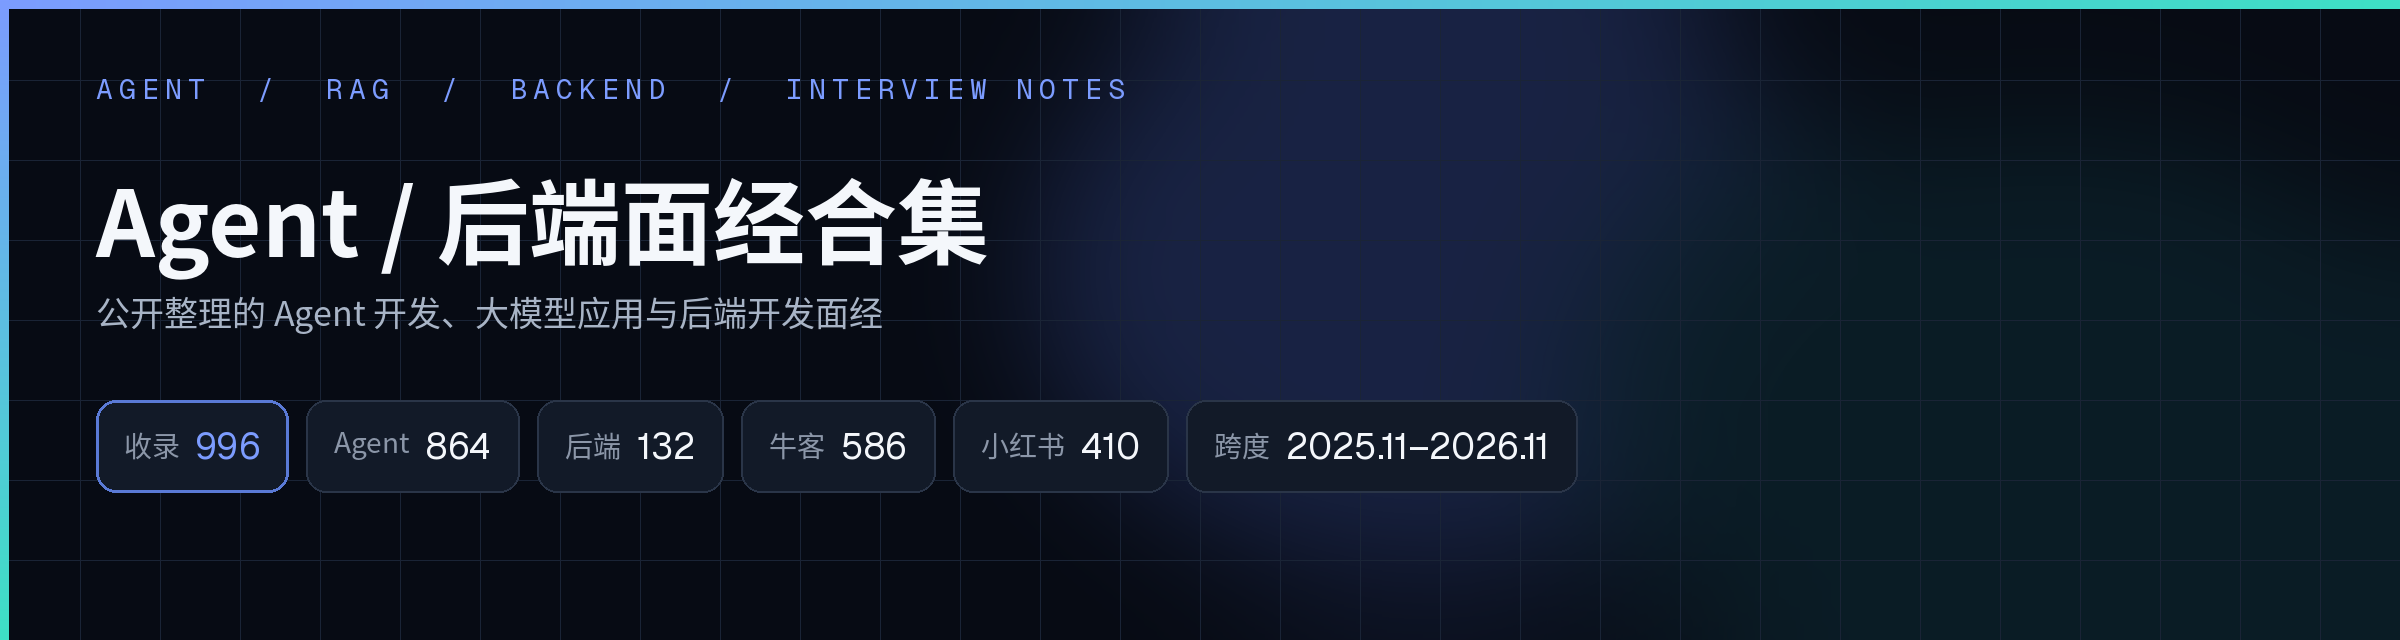
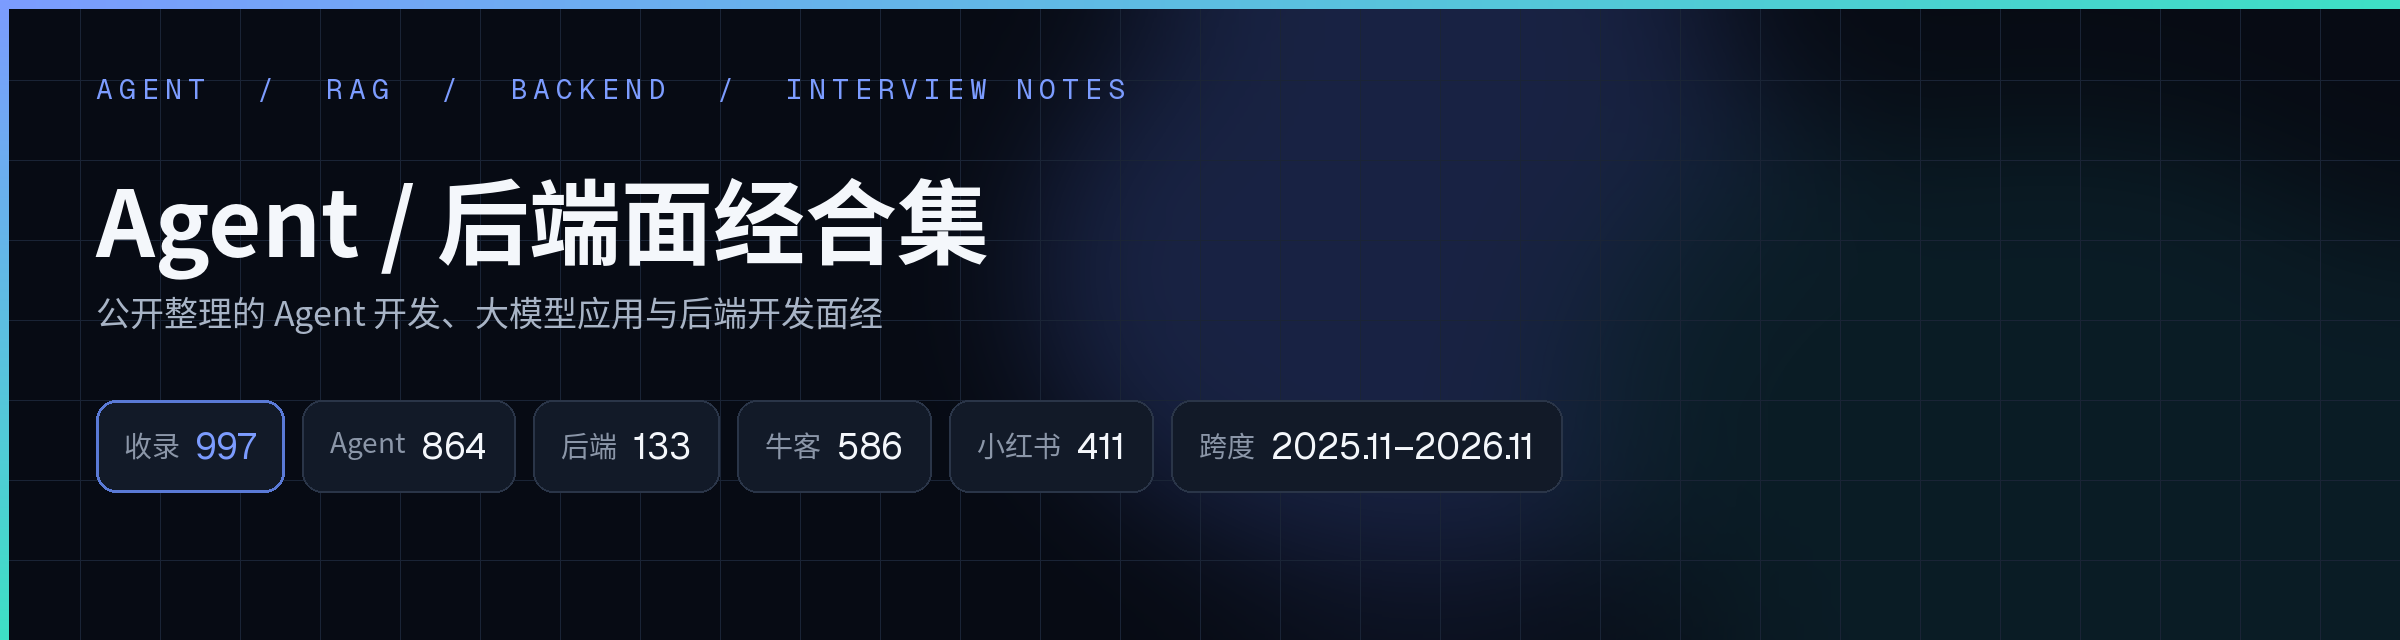
add 1 Xiaohongshu 面经 (八层芝士皇堡拼多多服务端开发一面)

Changed region(s): [[0.0938, 0.625, 0.6562, 0.7812]]

diff --git a/backend/2026-10-11-拼多多-服务端开发-一面.md b/backend/2026-10-11-拼多多-服务端开发-一面.md
@@ -1,0 +1,57 @@
+# 拼多多服务端开发一面
+
+> 拼多多（报告写 pdd） · 服务端开发（按原帖标题记录；图中写 Java 后端面经，不另改岗） · 招聘类型未注明 · 一面 · 结果：凉（标题写凉经；作者自述实习做 AI 工具、真实后端场景不擅长） · 详情页可见日期为 10-11（未标年份，无「编辑于」标记）；按小红书月日格式和报告的 2026 年时间语境记为 2026-10-11，落在收集窗口 2026-08-10 至 2026-11-12 · 作者 八层芝士皇堡 · 来源：[小红书](https://www.xiaohongshu.com/explore/6acb62370000000018004d29)
+
+原帖标题为《pdd服务端开发一面凉经》。公司按通行名称记为拼多多。岗位按标题记为服务端开发，图中写 Java 后端面经，不另改岗。招聘类型和面试日期在已读材料里未见，不猜测。结果按标题「凉经」记为凉；作者自述实习做 AI 工具、真实后端场景不擅长，不当成额外已核细节。第七十七批因正文无题、图未放大，暂未收；第七十八批已读完 4 张图，只收录题意，不收录作者回答。仓库中其他作者的拼多多服务端一面为不同原帖，不与本篇合并。
+
+## 速览
+
+- **重点**：拼多多服务端开发一面。岗位按标题记为服务端开发。下面只整理搜集报告里已经可见的题意摘要，不是逐字原文，不收录作者回答，也不补答案。题目在 4 张图里，第七十八批已读完，不再标局部。已列出 IM、电商、JVM GC、文件上传四组题意，见正文。标题写凉经，按标题记录结果为凉。本帖只见一面这一场，不拆文件，不与仓库中其他拼多多篇合并。
+- **难度**：拼多多服务端开发一面，标题写凉经。发帖日期依据：详情页可见 10-11，未标年份，无「编辑于」标记，按小红书月日格式和报告 2026 语境记为 2026-10-11。
+- **题量**：仅按报告可见摘要整理，不把未见细节补成题目，也不声称全题已核。
+
+## 面经正文
+
+以下只整理搜集报告中已经看到的题意，不是逐字原文，不收录作者各题的回答，也不补答案。只写这一场一面，不拆。报告称 4 张图已读完，不再标局部。
+
+### 开场（报告所记导语）
+
+报告写题目在 4 张图里，第七十七批未放大读图，第七十八批已读完。下面只整理报告已列出的题意，不收录作者各题的回答，也不补答案。已读材料没有写出实际面试日期。标题写凉经，按标题记录结果为凉；作者还称实习做 AI 工具、真实后端场景不擅长，这是作者自述，不另写成已核细节。
+
+报告写开场导语是：围绕高并发、高可用，涉及 IM 即时通讯、电商系统、文件上传系统，以及 JVM GC 优化；面试官喜欢用具体业务场景连续追问。这不是一道独立题，这里只作背景，不补成题目。
+
+### IM 即时通讯系统
+
+好友关系用什么数据结构存储。
+
+「可能认识的人」怎么实现。
+
+某用户好友特别多怎么办。
+
+有没有什么数据结构可以优化。报告写这是面试官引导，未展开引导内容，这里不补。
+
+用户网络不好、聊天消息丢失怎么办。追问：如果用户一直重试发送消息呢。报告写面试官由此引导限流、熔断，具体问法未再展开，这里不补。
+
+### 电商系统（订单、库存、高并发）
+
+订单表和库存表怎么设计。报告写面试官引导：需要几张表；订单访问频繁应怎么设计；商品里存订单信息，还是订单里存商品信息。
+
+高并发下单时，库存怎么扣减。
+
+怎么保证 Redis 和 MySQL 的数据一致性。
+
+大量用户同时下单，系统怎么抗住高并发。
+
+### JVM GC 性能优化
+
+如何优化 GC 性能。
+
+### 高并发文件上传系统
+
+如何设计一个支持高并发、高可用的文件上传系统。报告写还有追问，但作者记不清，只录了这道题目，不补未见追问。
+
+以上只保留报告已列出的题意，不补实现细节，也不收录作者回答。结果按标题记为凉。招聘类型未注明。具体面试发生日不等于发帖日，本文不推断。
+
+---
+
+收录于 2026-11-25 · 本文为依据搜集报告可见摘要的整理，非正式原文转载。版权归原作者所有，如有侵权请提 Issue 删除。

diff --git a/README.md b/README.md
@@ -21,7 +21,7 @@
 
 | 收录 | Agent / 大模型应用 | 后端 | 来源 | 发帖跨度 |
 | --- | --- | --- | --- | --- |
-| 996 篇 | 864 | 132 | 牛客 586 · 小红书 410 | 2025.11–2026.11 |
+| 997 篇 | 864 | 133 | 牛客 586 · 小红书 411 | 2025.11–2026.11 |
 
 统计与 [`data/index.json`](data/index.json) 及 `agent/`、`backend/` 目录文件一致，随收录更新。本仓库整理已公开的帖子，不声称对每篇都做了独立真伪核验。
 
@@ -990,6 +990,7 @@
 | 2026-10-13 | 字节跳动日常实习后端开发一面面经 | [文件](backend/2026-10-13-字节跳动-后端开发-日常实习-一面.md) | [原文](https://www.xiaohongshu.com/explore/6acdebd60000000018012021) |
 | 2026-10-11 | 10.11 拼多多面试记录 | [文件](backend/2026-10-11-拼多多-服务端研发-秋招-一面.md) | [原文](https://www.xiaohongshu.com/explore/6acb00c50000000018016509) |
 | 2026-10-11 | 得物 golang开发，一面 | [文件](backend/2026-10-11-得物-golang开发-一面.md) | [原文](https://www.xiaohongshu.com/explore/6acb320f000000001803ace5) |
+| 2026-10-11 | pdd服务端开发一面凉经 | [文件](backend/2026-10-11-拼多多-服务端开发-一面.md) | [原文](https://www.xiaohongshu.com/explore/6acb62370000000018004d29) |
 | 2026-10-09 | 字节秋招 后端开发一面二面面经（局部 1-4/14） | [文件](backend/2026-10-09-字节跳动-后端开发-秋招-一面二面-局部.md) | [原文](https://www.xiaohongshu.com/explore/6ac8a3bf000000001b033446) |
 | 2026-10-09 | 顺丰java后端开发一面 | [文件](backend/2026-10-09-顺丰-Java后端开发-一面-局部.md) | [原文](https://www.xiaohongshu.com/explore/6ac8befe000000001803b3c0) |
 | 2026-10-08 | 百度秋招 后端开发一面二面面经（局部 1-4/21） | [文件](backend/2026-10-08-百度-后端开发-秋招-一面二面-局部.md) | [原文](https://www.xiaohongshu.com/explore/6ac75f29000000001303eeb5) |
